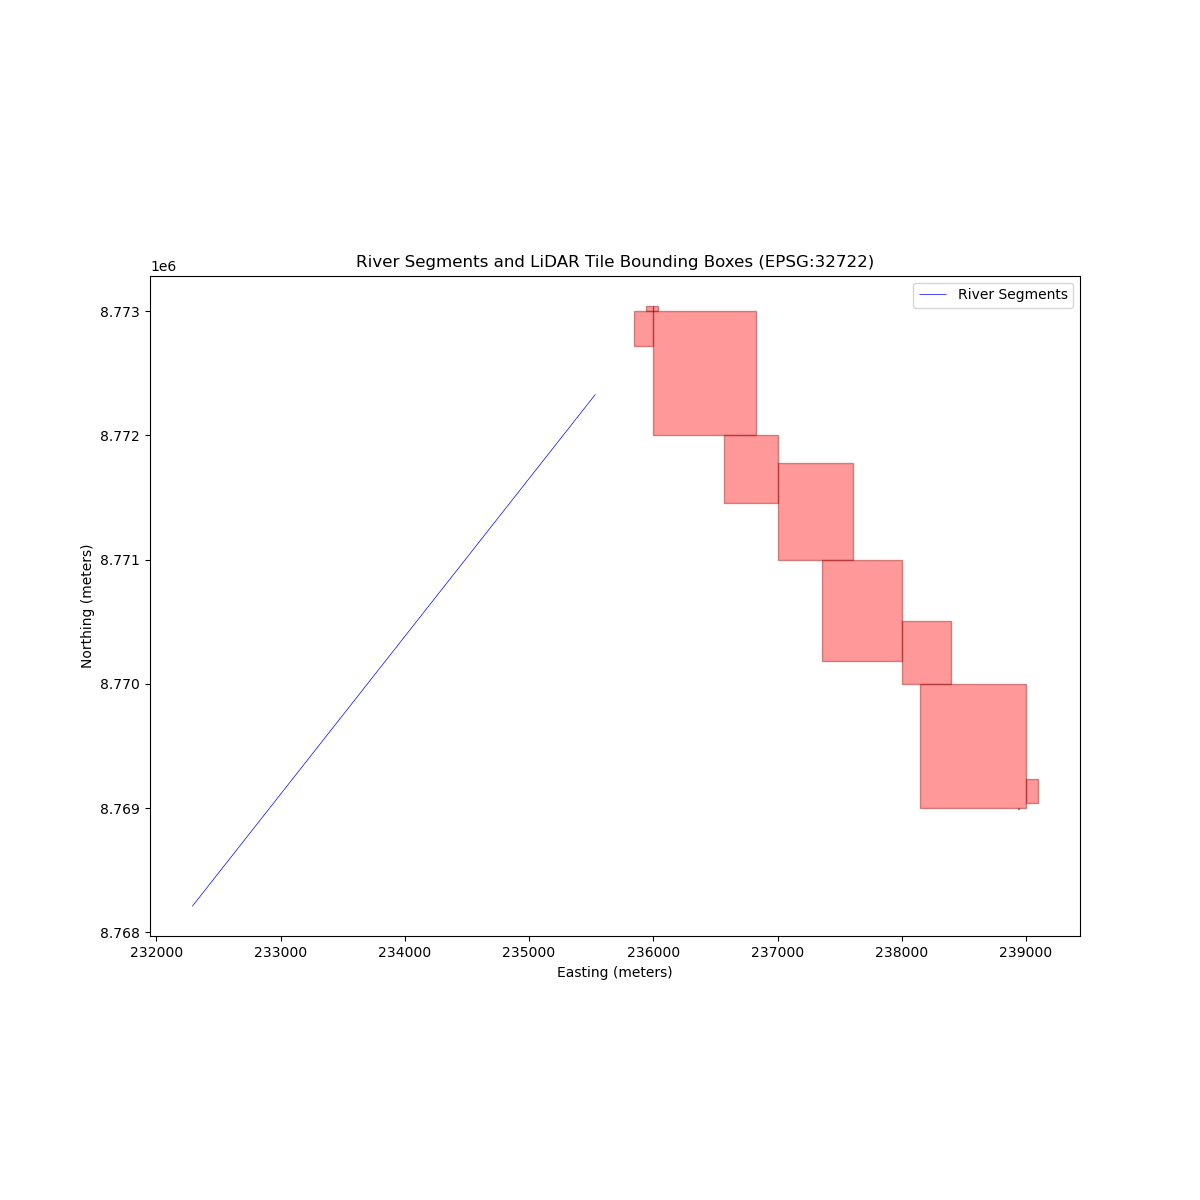
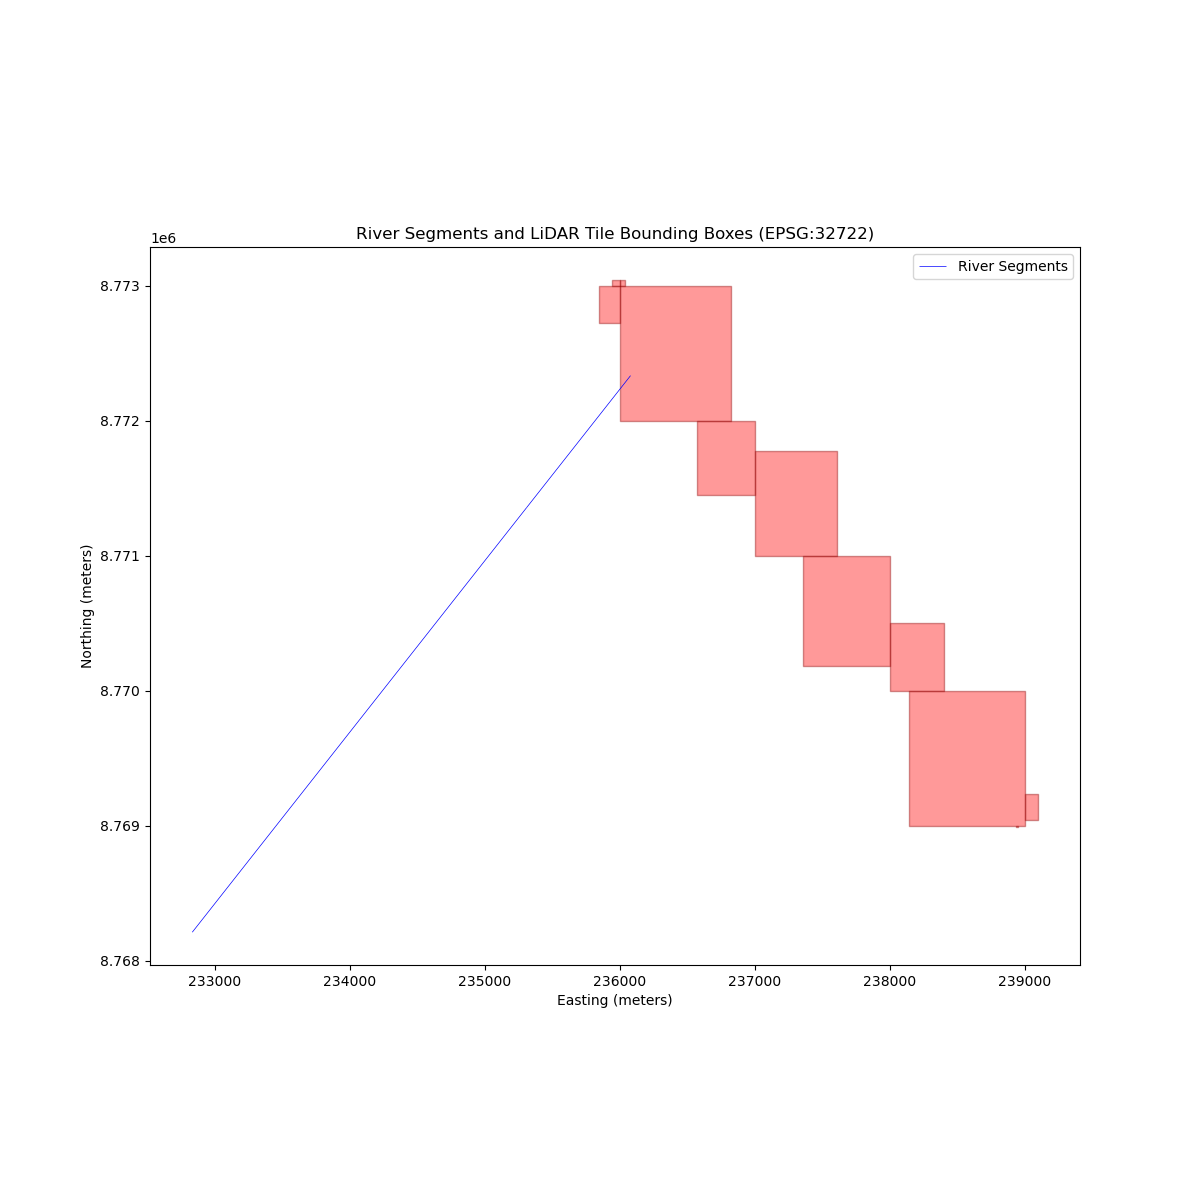
add

diff --git a/define_river_corridor.py b/define_river_corridor.py
@@ -38,9 +38,18 @@ def define_river_corridor_and_segments():
     """
     print("Step 1: Create the River Centerline (Manual Definition)")
     river_centerline_coords = [
-        (-53.451, -11.133), 
-        (-53.421, -11.096)
+        (-53.446, -11.133), # Shifted eastward
+        (-53.416, -11.096)  # Shifted eastward
     ]
+    # river_centerline_coords = [
+    #     (-53.451, -11.133), 
+    #     (-53.421, -11.096)
+    # ] # Previous attempt for core area
+    # river_centerline_coords = [
+    #     (-53.5, -11.5), 
+    #     (-52.9, -10.9)
+    # ] # Original longer river segment
+
     river_line = LineString(river_centerline_coords)
     river_gdf = gpd.GeoDataFrame({'id': [1], 'geometry': [river_line]}, crs="EPSG:4326")
     print(f"Initial river line length: {river_gdf.geometry.iloc[0].length:.4f} degrees")
@@ -73,7 +82,26 @@ def define_river_corridor_and_segments():
     segments_gdf = segments_gdf[['segment_id', 'geometry', 'lat', 'lon']]
     print("Centroid coordinates (lat/lon) added to each segment.")
 
+    # Ensure the output directory exists
+    # Path is now relative to the script's current location in the main project directory
+    output_dir = "gis_outputs"
+    os.makedirs(output_dir, exist_ok=True)
+
+    # Save the corridor and segments to GeoJSON files
+    corridor_output_path = os.path.join(output_dir, "river_corridor_5km.geojson")
+    segments_output_path = os.path.join(output_dir, "river_segments.geojson")
+
+    try:
+        corridor_gdf.to_file(corridor_output_path, driver="GeoJSON")
+        segments_gdf.to_file(segments_output_path, driver="GeoJSON")
+    except Exception as e:
+        print(f"Error saving GeoJSON files: {e}")
+
+    print(f"Corridor saved to {os.path.abspath(corridor_output_path)}")
+    print(f"Segments saved to {os.path.abspath(segments_output_path)}")
+
     return segments_gdf, corridor_gdf
+
 
 if __name__ == "__main__":
     script_dir = os.path.dirname(os.path.abspath(__file__)) 
